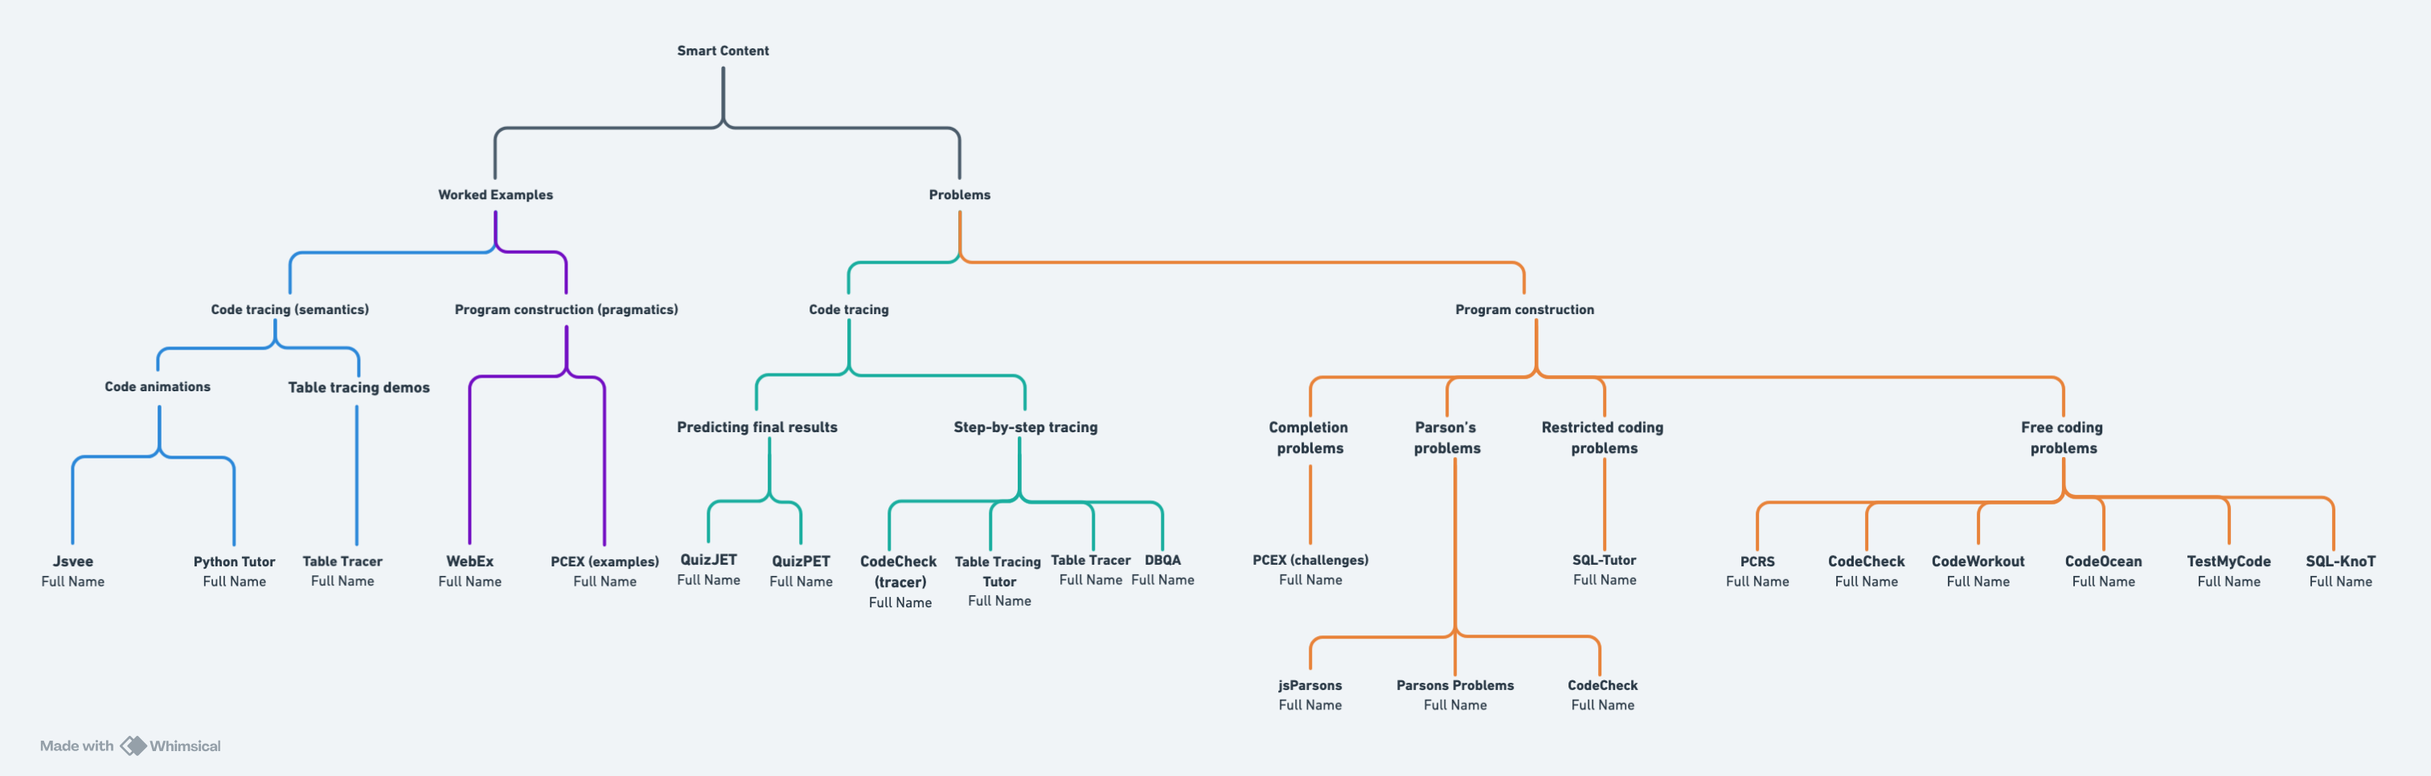
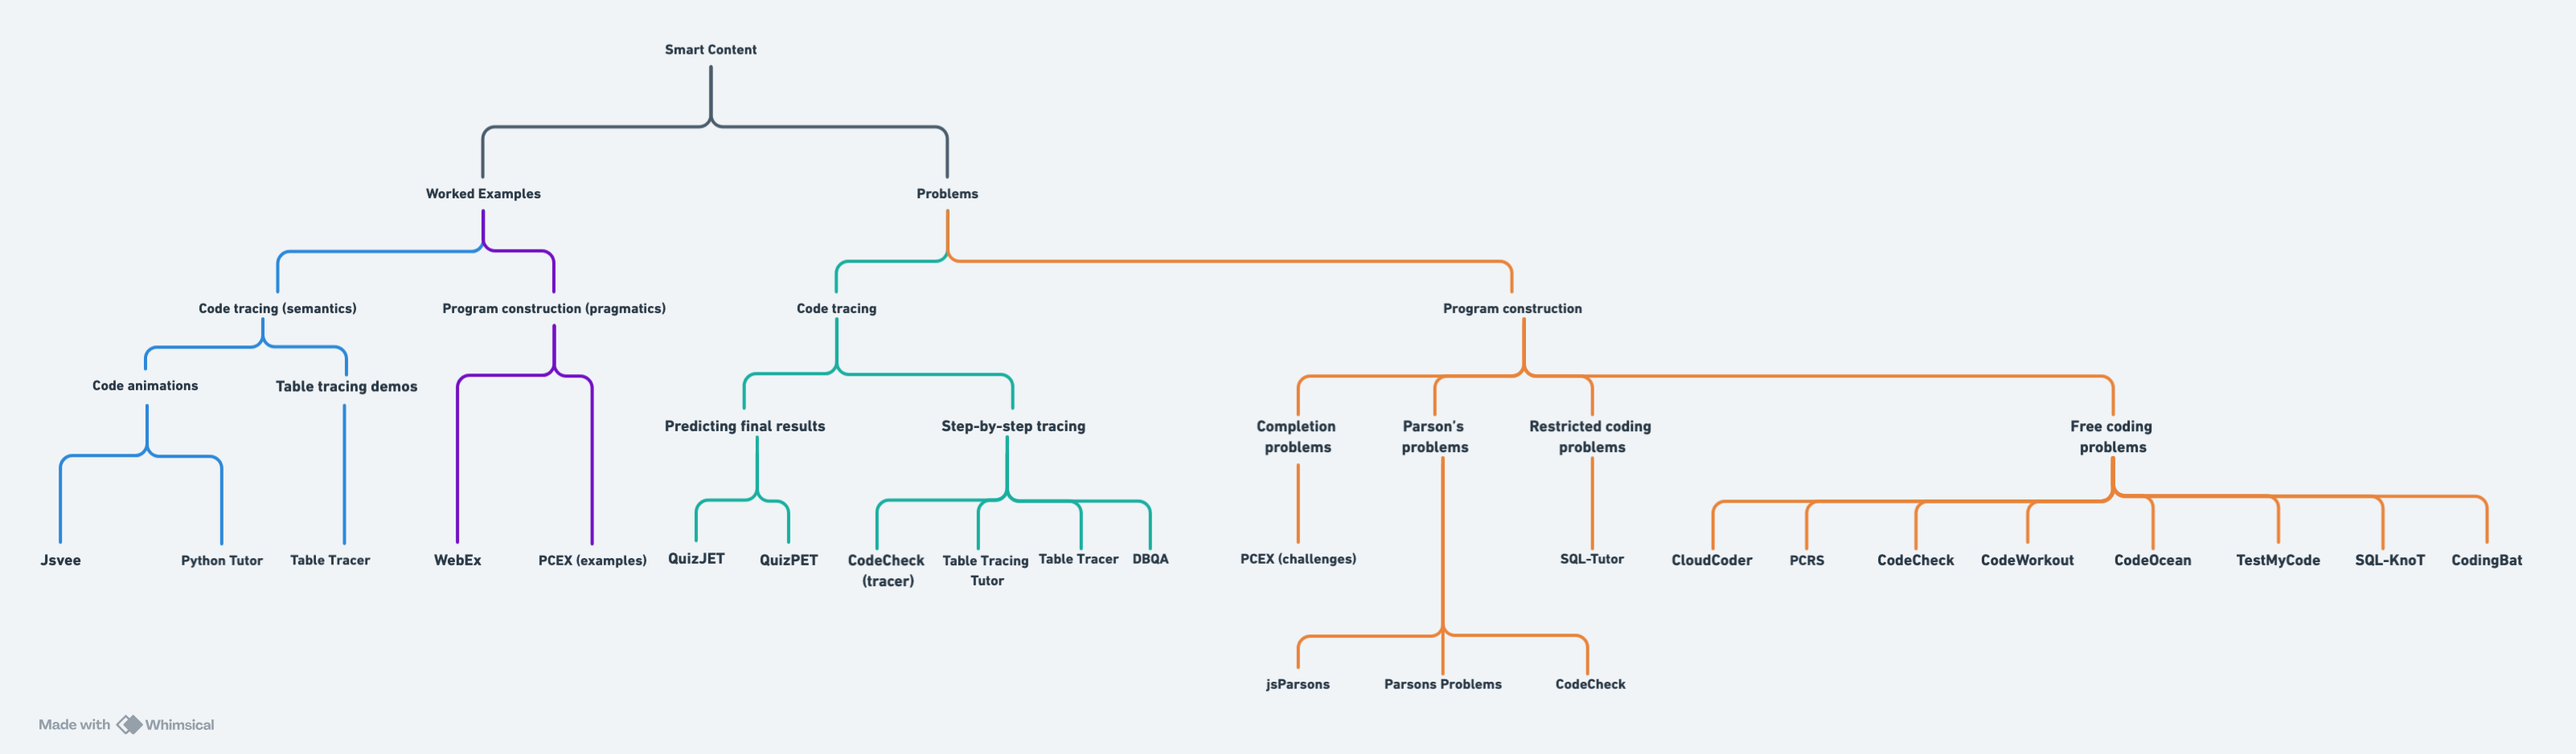
Changed image and links for Python Tutor and CodingBat

diff --git a/SmartContent/index.html b/SmartContent/index.html
@@ -71,8 +71,7 @@
                                         href="https://docs.google.com/document/d/1urJ6ff5zmifw4qp5VtD0q3vzHYZuahIPRd_fXJI1fjM/edit?usp=sharing">
                                         jsvee Animated Examples
                                     </a></li>
-                                <li><a
-                                        href="https://docs.google.com/document/d/1WW_G0rmo577OTvHUejgyxkTj59ndAu7Ki28ci-zpsbo/edit?usp=sharing">
+                                <li><a href="https://pythontutor.com/">
                                         Python Tutor
                                     </a></li>
                             </ul>
@@ -186,8 +185,7 @@
                                         href="https://docs.google.com/document/d/1x9lILS3RbCKc-X7xyuYhXRTwsUklMtmjT05baE-lL0Q/edit?usp=sharing">
                                         CodeWorkout
                                     </a></li>
-                                <li><a
-                                        href="https://docs.google.com/document/d/19hAkz21p4fok60tEP8k-AuNUJkirNIN2CBTzHVAh5H0/edit?usp=sharing">
+                                <li><a href="https://codingbat.com/java">
                                         CodingBat
                                     </a></li>
                                 <li><a
@@ -239,8 +237,7 @@
                             href="https://docs.google.com/document/d/1DBQMBUUgwqCxb8A4GE9nrIf2-W3QuPdPRG4fvRvC0WI/edit?usp=sharing">
                             PCRS
                         </a></li>
-                    <li><a
-                            href="https://docs.google.com/document/d/1WW_G0rmo577OTvHUejgyxkTj59ndAu7Ki28ci-zpsbo/edit?usp=sharing">
+                    <li><a href="https://pythontutor.com/">
                             Python Tutor
                         </a></li>
                 </ul>
@@ -274,8 +271,7 @@
                             href="https://docs.google.com/document/d/1x9lILS3RbCKc-X7xyuYhXRTwsUklMtmjT05baE-lL0Q/edit?usp=sharing">
                             CodeWorkout
                         </a></li>
-                    <li><a
-                            href="https://docs.google.com/document/d/19hAkz21p4fok60tEP8k-AuNUJkirNIN2CBTzHVAh5H0/edit?usp=sharing">
+                    <li><a href="https://codingbat.com/java">
                             CodingBat
                         </a></li>
                     <li><a
@@ -296,8 +292,7 @@
                             href="https://docs.google.com/document/d/14jdmf3sAZNvFghM_-5Gq6tOPnc9jviFl-2jbie-lNHg/edit?usp=sharing">
                             Program Construction Examples - PCEX
                         </a></li>
-                    <li><a
-                            href="https://docs.google.com/document/d/1WW_G0rmo577OTvHUejgyxkTj59ndAu7Ki28ci-zpsbo/edit?usp=sharing">
+                    <li><a href="https://pythontutor.com/">
                             Python Tutor
                         </a></li>
                     <li><a
@@ -316,8 +311,7 @@
 
                 <li><b>JavaScript:</b></li>
                 <ul>
-                    <li><a
-                            href="https://docs.google.com/document/d/1WW_G0rmo577OTvHUejgyxkTj59ndAu7Ki28ci-zpsbo/edit?usp=sharing">
+                    <li><a href="https://pythontutor.com/">
                             Python Tutor
                         </a></li>
                     <li><a
@@ -348,8 +342,7 @@
                             href="https://docs.google.com/document/d/1x9lILS3RbCKc-X7xyuYhXRTwsUklMtmjT05baE-lL0Q/edit?usp=sharing">
                             CodeWorkout
                         </a></li>
-                    <li><a
-                            href="https://docs.google.com/document/d/19hAkz21p4fok60tEP8k-AuNUJkirNIN2CBTzHVAh5H0/edit?usp=sharing">
+                    <li><a href="https://codingbat.com/python">
                             CodingBat
                         </a></li>
                     <li><a
@@ -375,8 +368,7 @@
                             href="https://docs.google.com/document/d/14WAZffmq9i-aurnKNyUrkvJMfYUSZvmkh4PvaDCuEXw/edit?usp=sharing">
                             Python Trace Table Tutor (T3)
                         </a></li>
-                    <li><a
-                            href="https://docs.google.com/document/d/1WW_G0rmo577OTvHUejgyxkTj59ndAu7Ki28ci-zpsbo/edit?usp=sharing">
+                    <li><a href="https://pythontutor.com/">
                             Python Tutor
                         </a></li>
                     <li><a
@@ -488,16 +480,14 @@
 
                 <li><b>Stanford University:</b></li>
                 <ul>
-                    <li><a
-                            href="https://docs.google.com/document/d/19hAkz21p4fok60tEP8k-AuNUJkirNIN2CBTzHVAh5H0/edit?usp=sharing">
+                    <li><a href="https://codingbat.com/java">
                             CodingBat
                         </a></li>
                 </ul>
 
                 <li><b>University of California San Diego:</b></li>
                 <ul>
-                    <li><a
-                            href="https://docs.google.com/document/d/1WW_G0rmo577OTvHUejgyxkTj59ndAu7Ki28ci-zpsbo/edit?usp=sharing">
+                    <li><a href="https://pythontutor.com/">
                             Python Tutor
                         </a></li>
                 </ul>
